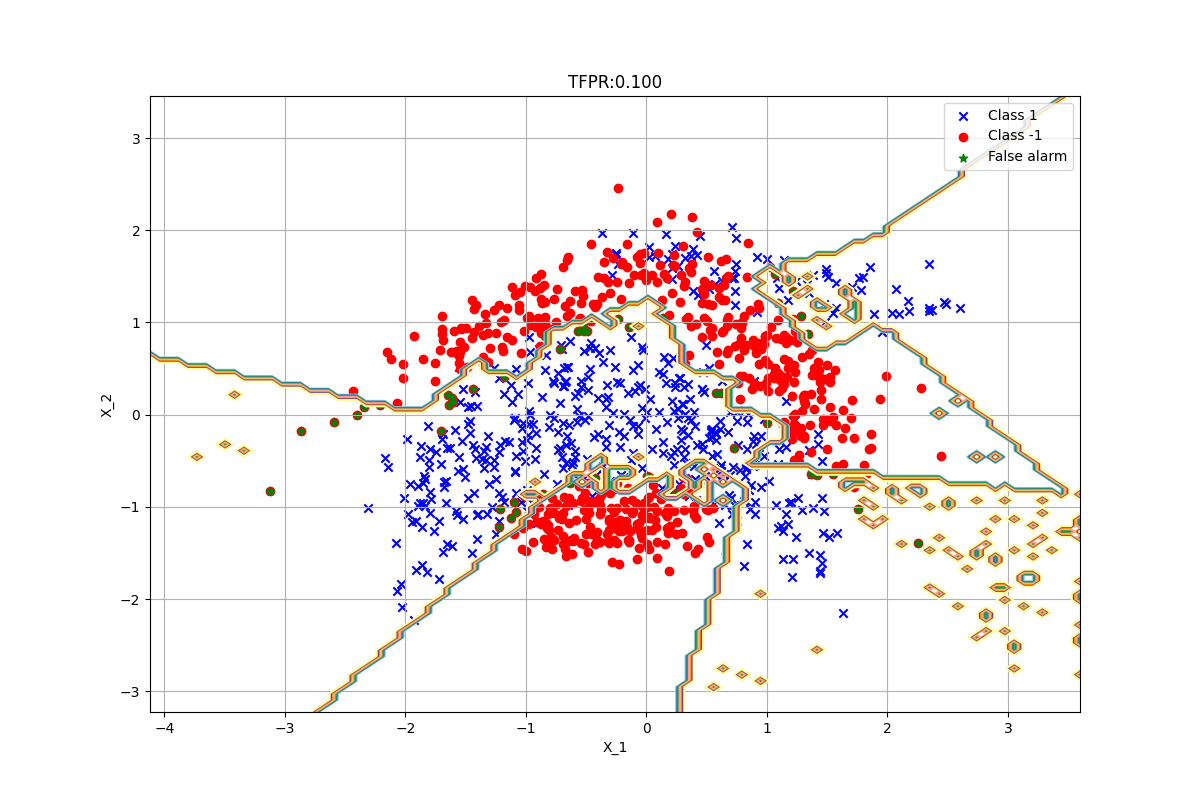
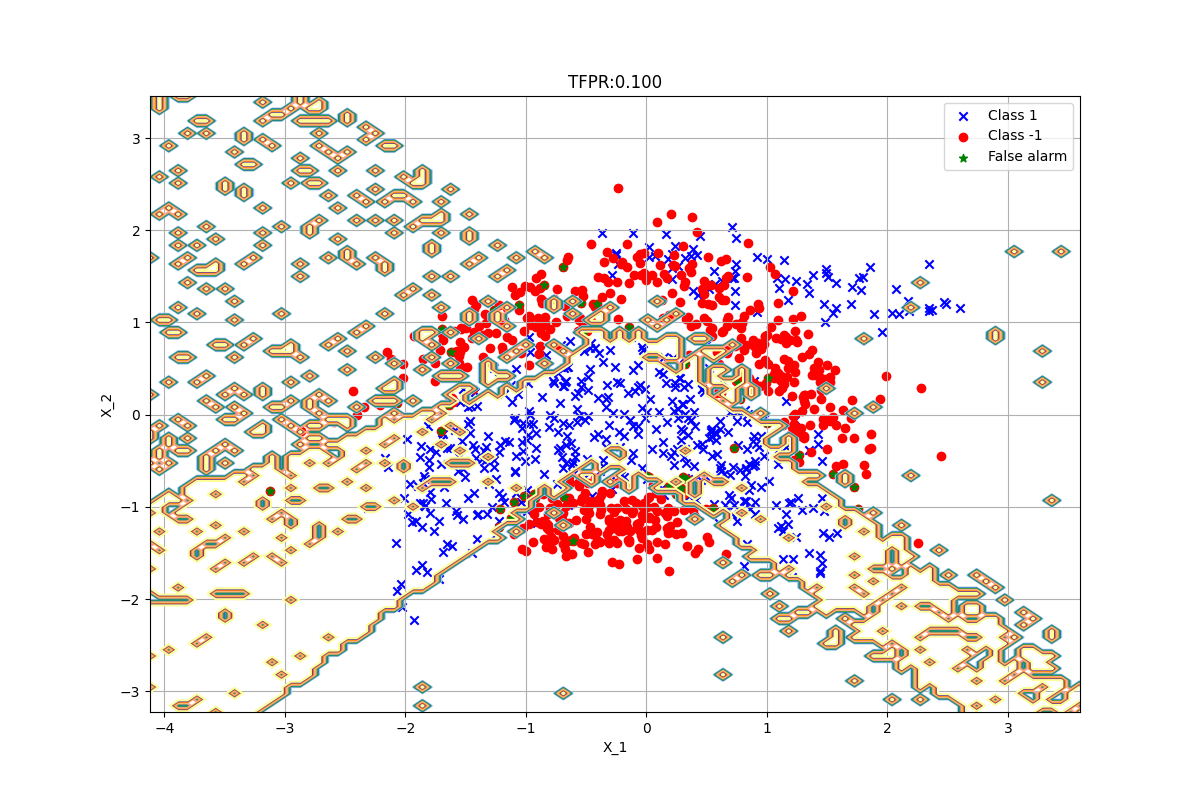
active update

diff --git a/tree_olnp/tree_olnp.py b/tree_olnp/tree_olnp.py
@@ -1,3 +1,4 @@
+from operator import xor
 import numpy as np
 from sklearn.decomposition import PCA
 import pandas as pd
@@ -8,7 +9,7 @@ import matplotlib.pyplot as plt
 
 class tree_olnp:
 
-    def __init__(self, tfpr=0.1, eta_init=0.01, beta_init=100, sigmoid_h=-1, Lambda=0, tree_depth=2, split_prob=0.5, node_loss_constant=1, projection_type='PCA', ensemble_type='probabilistic', max_row=None, max_col=None) -> None:
+    def __init__(self, tfpr=0.1, eta_init=0.01, beta_init=100, sigmoid_h=-1, Lambda=0, tree_depth=2, split_prob=0.5, node_loss_constant=1, projection_type='PCA', ensemble_type='probabilistic', max_row=None, max_col=None, active_learning=False, exploration_prob=0.2, uncertainity_threshold=0.5) -> None:
         
         # hyperparameters
         self.tfpr = tfpr
@@ -21,6 +22,9 @@ class tree_olnp:
         self.node_loss_constant = node_loss_constant
         self.projection_type = projection_type
         self.ensemble_type = ensemble_type
+        self.active_learning = active_learning
+        self.exploration_prob = exploration_prob
+        self.uncertainity_threshold = uncertainity_threshold
 
         # parameters
         self.w_ = None # perceptron weight
@@ -55,6 +59,9 @@ class tree_olnp:
         split_prob = self.split_prob
         node_loss_constant = self.node_loss_constant
         projection_type = self.projection_type
+        active_learning = self.active_learning
+        exploration_prob = self.exploration_prob
+        uncertainity_threshold = self.uncertainity_threshold
 
         # set augmentation size
         n_samples_augmented_min = 150e3
@@ -127,13 +134,19 @@ class tree_olnp:
         neg_class_weight_train_array = np.zeros((n_samples))
         pos_class_weight_train_array = np.zeros((n_samples))
         gamma_array = np.zeros((n_samples))
-        transient_number_of_positive_samples = 1
-        transient_number_of_negative_samples = 1
+        transient_number_of_positive_samples_explore = 1
+        transient_number_of_negative_samples_explore = 1
+        transient_number_of_positive_samples_exploit = 1
+        transient_number_of_negative_samples_exploit = 1
 
         # initiate weights
         neg_class_weight_train_array[0] = 2*gamma
         pos_class_weight_train_array[0] = 2*gamma
         
+        # initiate active learning index counter
+        # not all samples in dataset are used in training
+        sample_index = 0
+
         for i in range(0, n_samples):
 
             # take the input data
@@ -166,12 +179,54 @@ class tree_olnp:
                 y_discriminant_ = np.matmul(xt, w[:, dark_node_index])+b[dark_node_index]
                 y_discriminant[dark_node_index] = y_discriminant_
                 C[dark_node_index] = np.sign(y_discriminant_)
-            
+
+            # if active learning is not active
+            # Tree OLNP will use every sample avaible
+            if active_learning:
+                # exploration probability
+                z = np.random.rand()
+                if i==0:
+                    z=0
+                if z > exploration_prob:
+                    # this sample is not part of the exploration
+                    # calculate entropy of xt for exploitation
+                    pos_indices = C[dark_node_indices] == 1
+                    pos_indices_sum = pos_indices.sum()
+                    if (pos_indices_sum == 0) or (pos_indices_sum == len(dark_node_indices)):
+                        # all experts share the same prediction
+                        entropy = 0
+                    else:
+                        theta = mu_tree[pos_indices].sum() # P(f(x)=1) = theta
+                        entropy = -theta*np.log2(theta)-(1-theta)*np.log2(1-theta)
+                    if entropy <= uncertainity_threshold:
+                        # experts are certain about xt
+                        # no need to include xt in learning process
+                        is_explore = False
+                        is_exploit = False
+                    else:
+                        # experts are uncertain about xt
+                        # need to include xt in learning process
+                        is_explore = False
+                        is_exploit = True
+                else:
+                    # this sample is part of the exploration
+                    is_explore = True
+                    is_exploit = False
+            else:
+                # active learning is not availble, do not apply any filter to xt
+                # i.e no explore or exploit
+                is_explore = True
+                is_exploit = True
+
+            # handle uninformative sample case
+            if not (is_explore or is_exploit):
+                continue
+
             # calculate prediction of the ensemble
             yt_predict = self.__expert_ensemble(C[dark_node_indices], y_discriminant[dark_node_indices], mu_tree)
 
             # save sample mu
-            sample_mu[i, :] = mu_tree
+            sample_mu[sample_index, :] = mu_tree
 
             # save tp and fp
             if yt == 1:
@@ -181,90 +236,112 @@ class tree_olnp:
                 if yt_predict == 1:
                     fp = fp+1
 
-            tpr_train_array[i] = tp/transient_number_of_positive_samples
-            fpr_train_array[i] = fp/transient_number_of_negative_samples
+            tpr_train_array[sample_index] = tp/(transient_number_of_positive_samples_explore+transient_number_of_positive_samples_exploit)
+            fpr_train_array[sample_index] = fp/(transient_number_of_negative_samples_explore+transient_number_of_negative_samples_exploit)
 
             # save gamma
-            gamma_array[i] = gamma
+            gamma_array[sample_index] = gamma
+
+            # only related to class weight learning
 
             # update the buffer with the current prediction
-            if yt == -1:
+            if is_explore:
+                # estimate FPR only in the exploration phase
+                if yt == -1:
+                    # modify the size of the FPR estimation buffer
+                    if negative_sample_buffer_index == negative_sample_buffer_size-1:
+                        negative_sample_buffer[:-1] = negative_sample_buffer[1:]
+                    else:
+                        negative_sample_buffer_index += 1
 
-                # modify the size of the FPR estimation buffer
+                    if yt_predict == 1:
+                        # false positive
+                        negative_sample_buffer[negative_sample_buffer_index] = 1
+                    else:
+                        # true negative
+                        negative_sample_buffer[negative_sample_buffer_index] = 0
+
+                # estimate the FPR of the current model using the moving buffer
                 if negative_sample_buffer_index == negative_sample_buffer_size-1:
-                    negative_sample_buffer[:-1] = negative_sample_buffer[1:]
+                    estimated_FPR = np.mean(negative_sample_buffer)
                 else:
-                    negative_sample_buffer_index += 1
+                    estimated_FPR = np.mean(negative_sample_buffer[:negative_sample_buffer_index+1])
 
-                if yt_predict == 1:
-                    # false positive
-                    negative_sample_buffer[negative_sample_buffer_index] = 1
+                # y(t), calculate mu(t)
+                if yt == 1:
+                    # mu(t) uses gamma(t-1), n_plus(t-1), n_minus(t-1)
+                    mu = (transient_number_of_positive_samples_explore + transient_number_of_negative_samples_explore)/transient_number_of_positive_samples_explore
                 else:
-                    # true negative
-                    negative_sample_buffer[negative_sample_buffer_index] = 0
+                    # mu(t) uses gamma(t-1), n_plus(t-1), n_minus(t-1)
+                    mu = gamma*(transient_number_of_positive_samples_explore + transient_number_of_negative_samples_explore)/transient_number_of_negative_samples_explore
 
-            # estimate the FPR of the current model using the moving buffer
-            if negative_sample_buffer_index == negative_sample_buffer_size-1:
-                estimated_FPR = np.mean(negative_sample_buffer)
-            else:
-                estimated_FPR = np.mean(negative_sample_buffer[:negative_sample_buffer_index+1])
-
-            # y(t), calculate mu(t)
+            # save class cost
             if yt == 1:
-                # mu(t) uses gamma(t-1), n_plus(t-1), n_minus(t-1)
-                mu = (transient_number_of_positive_samples + transient_number_of_negative_samples)/transient_number_of_positive_samples
                 # save class costs
-                pos_class_weight_train_array[i] = mu
-                if i>1:
-                    neg_class_weight_train_array[i] = neg_class_weight_train_array[i-1]
+                pos_class_weight_train_array[sample_index] = mu
+                if sample_index>1:
+                    neg_class_weight_train_array[sample_index] = neg_class_weight_train_array[sample_index-1]
             else:
-                # mu(t) uses gamma(t-1), n_plus(t-1), n_minus(t-1)
-                mu = gamma*(transient_number_of_positive_samples + transient_number_of_negative_samples)/transient_number_of_negative_samples
                 # save class costs
-                neg_class_weight_train_array[i] = mu
-                if i>1:
-                    pos_class_weight_train_array[i] = pos_class_weight_train_array[i-1]
+                neg_class_weight_train_array[sample_index] = mu
+                if sample_index>1:
+                    pos_class_weight_train_array[sample_index] = pos_class_weight_train_array[i-1]
 
-            # SGD
-            # Update perceptron in each node
-            for k in range(len(dark_node_indices)-1,-1,-1):
-                dark_node_index = dark_node_indices[k]
-                # get the node loss
-                z = yt*y_discriminant[dark_node_index]
-                dloss_dz = self.__deriv_sigmoid_loss(z, sigmoid_h)
-                node_loss = self.__sigmoid_loss(z, sigmoid_h)
-                loss = mu*node_loss - gamma*tfpr
-                # update node performance
-                E[dark_node_index] = E[dark_node_index]*np.exp(node_loss_constant*loss)
-                # update node prob
-                if k == len(dark_node_indices)-1:
-                    P[dark_node_index] = E[dark_node_index]
+            if is_exploit:
+                # only related to perceptron learning
+
+                # SGD
+                # Update perceptron in each node
+                for k in range(len(dark_node_indices)-1,-1,-1):
+                    dark_node_index = dark_node_indices[k]
+                    # get the node loss
+                    z = yt*y_discriminant[dark_node_index]
+                    dloss_dz = self.__deriv_sigmoid_loss(z, sigmoid_h)
+                    node_loss = self.__sigmoid_loss(z, sigmoid_h)
+                    loss = mu*node_loss - gamma*tfpr
+                    # update node performance
+                    E[dark_node_index] = E[dark_node_index]*np.exp(node_loss_constant*loss)
+                    # update node prob
+                    if k == len(dark_node_indices)-1:
+                        P[dark_node_index] = E[dark_node_index]
+                    else:
+                        P[dark_node_index] = split_prob * P[connectivity[dark_node_index, 2]] * P[connectivity[dark_node_index, 3]] + (1-split_prob)*E[dark_node_index]
+                    # SGD on each node
+                    dz_dw = yt*xt
+                    dz_db = yt
+                    dloss_dw = dloss_dz*dz_dw
+                    dloss_db = dloss_dz*dz_db
+                    # update w and b
+                    w[:, dark_node_index] = (1-eta*Lambda)*w[:, dark_node_index]-eta*mu*dloss_dw
+                    b[dark_node_index] = b[dark_node_index]-eta*mu*dloss_db
+                    
+                # y(t)
+                if yt == 1:
+                    # calculate n_plus(t)
+                    transient_number_of_positive_samples_exploit += 1
                 else:
-                    P[dark_node_index] = split_prob * P[connectivity[dark_node_index, 2]] * P[connectivity[dark_node_index, 3]] + (1-split_prob)*E[dark_node_index]
-                # SGD on each node
-                dz_dw = yt*xt
-                dz_db = yt
-                dloss_dw = dloss_dz*dz_dw
-                dloss_db = dloss_dz*dz_db
-                # update w and b
-                w[:, dark_node_index] = (1-eta*Lambda)*w[:, dark_node_index]-eta*mu*dloss_dw
-                b[dark_node_index] = b[dark_node_index]-eta*mu*dloss_db
+                    # calculate n_minus(t)
+                    transient_number_of_negative_samples_exploit += 1
 
-            # y(t)
-            if yt == 1:
-                # calculate n_plus(t)
-                transient_number_of_positive_samples += 1
-            else:
-                # calculate n_minus(t)
-                transient_number_of_negative_samples += 1
-                # calculate gamma(t)
-                gamma = gamma*(1+beta*(estimated_FPR - tfpr))
-
+            if is_explore:
+                # y(t)
+                if yt == 1:
+                    # calculate n_plus(t)
+                    transient_number_of_positive_samples_explore += 1
+                else:
+                    # calculate n_minus(t)
+                    transient_number_of_negative_samples_explore += 1
+                    # calculate gamma(t)
+                    gamma = gamma*(1+beta*(estimated_FPR - tfpr))
+            
             # update learning rate of perceptron
-            eta = eta_init/(1+Lambda*(transient_number_of_positive_samples + transient_number_of_negative_samples))
+            eta = eta_init/(1+Lambda*(transient_number_of_positive_samples_exploit + transient_number_of_negative_samples_exploit))
 
-            # update uzawa gain
-            beta = beta_init/(1+Lambda*(transient_number_of_positive_samples + transient_number_of_negative_samples))
+            # update learning rate for class weights
+            beta = beta_init/(1+Lambda*(transient_number_of_positive_samples_explore + transient_number_of_negative_samples_explore))
+
+            # update sample index
+            sample_index = sample_index+1
 
         # save updated parameters
         self.w_ = w
@@ -273,11 +350,11 @@ class tree_olnp:
         self.E_ = E
 
         # save the results
-        self.mu_train_array_ = sample_mu
-        self.tpr_train_array_ = tpr_train_array
-        self.fpr_train_array_ = fpr_train_array
-        self.neg_class_weight_train_array_ = neg_class_weight_train_array
-        self.pos_class_weight_train_array_ = pos_class_weight_train_array
+        self.mu_train_array_ = sample_mu[:sample_index,:]
+        self.tpr_train_array_ = tpr_train_array[:sample_index,]
+        self.fpr_train_array_ = fpr_train_array[:sample_index,]
+        self.neg_class_weight_train_array_ = neg_class_weight_train_array[:sample_index,]
+        self.pos_class_weight_train_array_ = pos_class_weight_train_array[:sample_index,]
 
         return None
 
@@ -364,6 +441,9 @@ class tree_olnp:
         params['ensemble_type'] = self.ensemble_type
         params['max_row'] = self.max_row
         params['max_col'] = self.max_col
+        params['active_learning'] = self.active_learning
+        params['exploration_prob'] = self.exploration_prob
+        params['uncertainity_threshold'] = self.uncertainity_threshold
 
         return params
 

diff --git a/main_02.py b/main_02.py
@@ -42,25 +42,16 @@ parameters = {
 
 # classifier definition
 # Note that cross validation is not applied here, it will be implemented in the future versions
-TreeOlnp = tree_olnp(tfpr = target_FPR, projection_type = 'iterative_PCA', active_learning=True)
-
-# hyperparameter tuning
-clf = GridSearchCV(TreeOlnp, parameters, verbose=3, cv=2, n_jobs=-1)
+TreeOlnp = tree_olnp(tfpr = target_FPR, projection_type = 'PCA', tree_depth=5, active_learning=True, exploration_prob=0.2, uncertainity_threshold=0.65)
 
 # training
-clf.fit(X_train, y_train)
-
-# print best params
-print(clf.best_params_)
-
-# get best estimator
-best_tree_olnp = clf.best_estimator_
+TreeOlnp.fit(X_train, y_train)
 
 # plot space partition
-best_tree_olnp.test_init_partitioner(X_train)
+TreeOlnp.test_init_partitioner(X_train)
 
 # prediction
-y_pred = best_tree_olnp.predict(X_test)
+y_pred = TreeOlnp.predict(X_test)
 
 # evaluation
 tn, fp, fn, tp = confusion_matrix(y_test, y_pred).ravel()
@@ -70,27 +61,27 @@ print("Tree-OLNP, TPR: {:.3f}, FPR: {:.3f}".format(TPR, FPR))
 
 # plot transient performances
 f,ax = plt.subplots(2,2,figsize=(8,12))
-ax[0, 0].plot(best_tree_olnp.tpr_train_array_, label="TPR")
+ax[0, 0].plot(TreeOlnp.tpr_train_array_, label="TPR")
 ax[0, 0].set_xlabel("Number of Samples")
 ax[0, 0].set_ylabel("TPR")
 ax[0, 0].grid()
 ax[0, 0].legend()
 
-ax[1, 0].plot(best_tree_olnp.fpr_train_array_, label="FPR")
+ax[1, 0].plot(TreeOlnp.fpr_train_array_, label="FPR")
 ax[1, 0].set_xlabel("Number of Samples")
 ax[1, 0].set_ylabel("FPR")
 ax[1, 0].grid()
 ax[1, 0].legend()
 
-ax[0, 1].plot(best_tree_olnp.neg_class_weight_train_array_, label="Negative Class weight")
-ax[0, 1].plot(best_tree_olnp.pos_class_weight_train_array_, label="Positive Class weight")
+ax[0, 1].plot(TreeOlnp.neg_class_weight_train_array_, label="Negative Class weight")
+ax[0, 1].plot(TreeOlnp.pos_class_weight_train_array_, label="Positive Class weight")
 ax[0, 1].set_xlabel("Number of Samples")
 ax[0, 1].set_ylabel("Class Respective Weights")
 ax[0, 1].grid()
 ax[0, 1].legend()
 
-for i in range(0, best_tree_olnp.tree_depth):
-    scatter_y = best_tree_olnp.mu_train_array_[:,i]
+for i in range(0, TreeOlnp.tree_depth):
+    scatter_y = TreeOlnp.mu_train_array_[:,i]
     scatter_x = list(range(0, scatter_y.shape[0]))
     ax[1, 1].scatter(x=scatter_x, y=scatter_y, label="Depth {}".format(i))
 ax[1, 1].legend()
@@ -105,7 +96,7 @@ y_min, y_max = X_test[:, 1].min() - 1, X_test[:, 1].max() + 1
 xx, yy = np.meshgrid(np.linspace(x_min, x_max, 100),
                      np.linspace(y_min, y_max, 100))
 X_mesh = np.c_[xx.ravel(), yy.ravel()]
-Z = best_tree_olnp.predict(X_mesh)
+Z = TreeOlnp.predict(X_mesh)
 Z = Z.reshape(xx.shape)
 pos_class_indices = (y_test == 1)
 neg_class_indices = (y_test == -1)
@@ -119,5 +110,5 @@ ax.legend()
 ax.grid()
 ax.set_ylabel("X_2")
 ax.set_xlabel("X_1")
-ax.set_title("TFPR:{:.3f}".format(best_tree_olnp.tfpr))
+ax.set_title("TFPR:{:.3f}".format(TreeOlnp.tfpr))
 f.savefig('./figures/decision_boundary_visualized.png')
